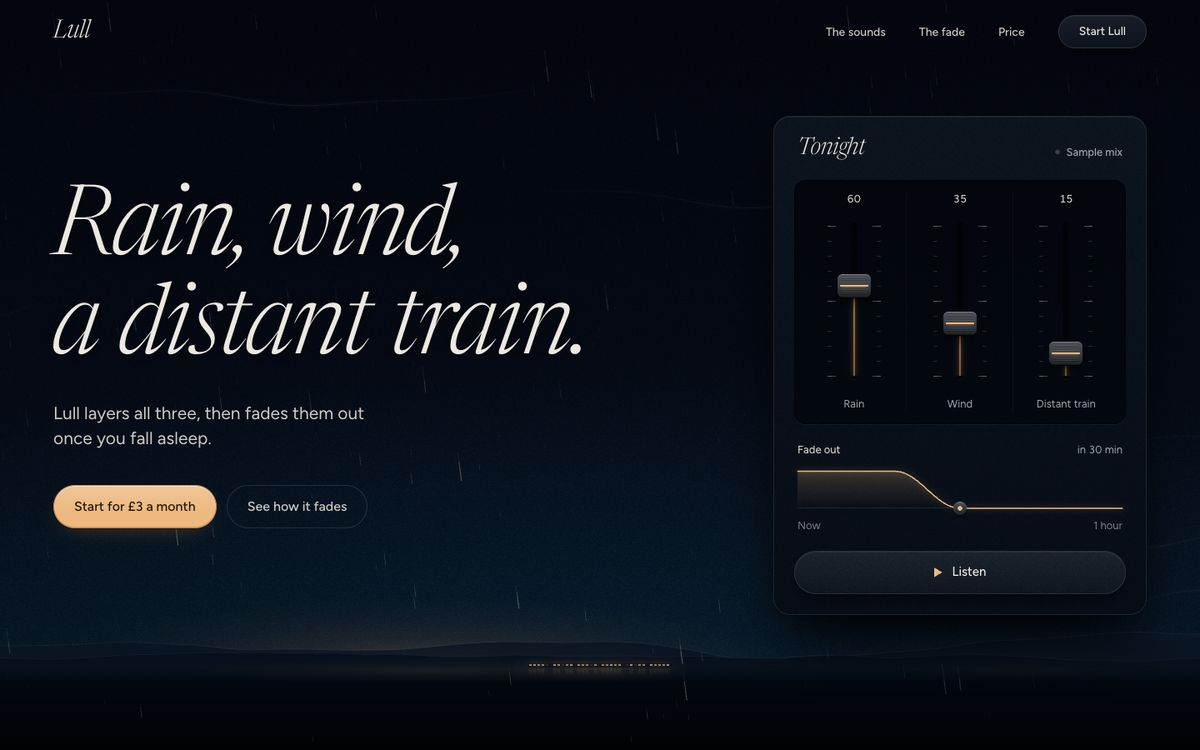
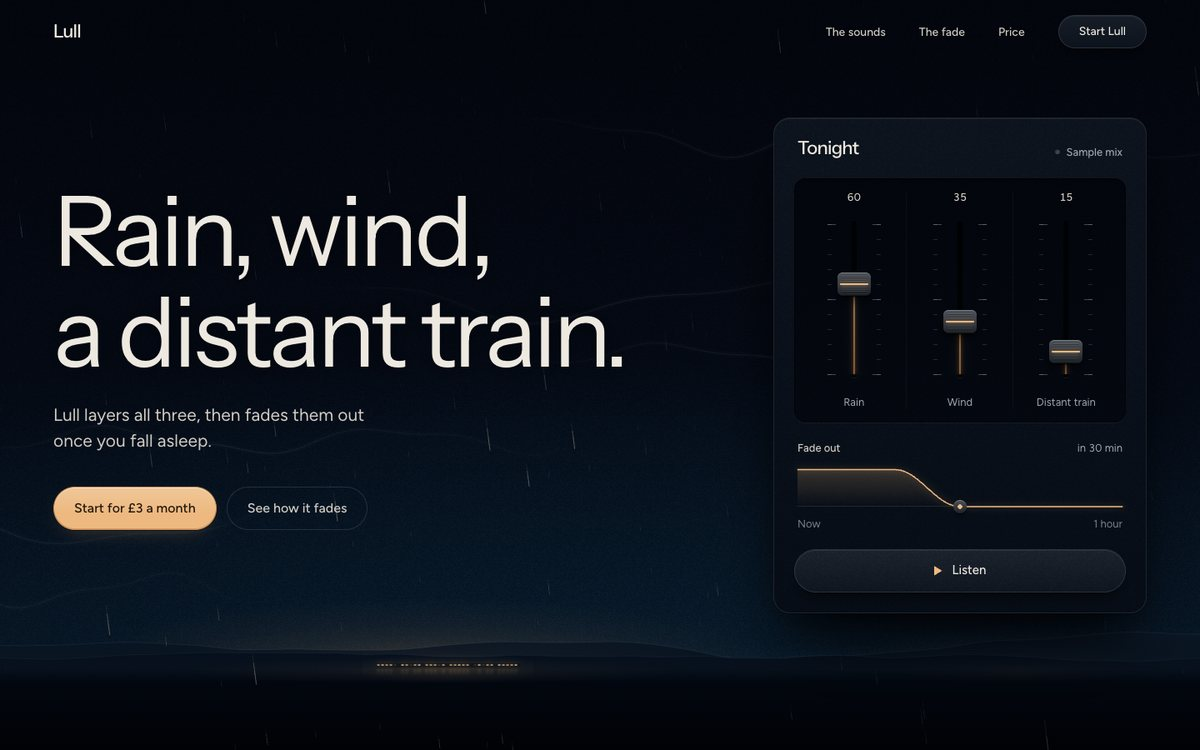
Ribbon sets its heads upright in Instrument Sans
The light Newsreader italic goes; heads, figures and the wordmark take Instrument Sans at 400 and 500. The theme file, its picture and the README picture follow, and Albert Sans takes Instrument Sans's place among the unused display faces.

diff --git a/skills/hallmark/references/themes/ribbon.md b/skills/hallmark/references/themes/ribbon.md
@@ -3,18 +3,18 @@ name: Ribbon
 slug: ribbon
 genre: atmospheric
 paper: light 98.5 85
-display: high-contrast-serif Newsreader italic
+display: grotesk-sans Instrument Sans
 accent: chromatic-teal 190
 posture: committed
 keywords: sleep, sound, soundscape, audio, night, rest, calm, wellness, meditation, white noise, ambient, listen, headphones, wind down, bedtime, quiet, breathing, app, subscription
-material: warm off-white or blue-black night, Newsreader light italic over Figtree, machined parts lit from above, the hour drawn as light on a generated canvas, one signal
+material: warm off-white or blue-black night, Instrument Sans at a quiet weight over Figtree, machined parts lit from above, the hour drawn as light on a generated canvas, one signal
 photo: muted sepia=14
 pictured: Night Notes, Stage hero, in the two-in-the-morning colourway
 ---
 
 # Ribbon
 
-The hour before sleep, set quietly: Newsreader italic at its lightest for every head, Figtree in a soft grey for reading, hairline rules instead of boxes, and the night itself drawn as slow light behind a machined instrument that really sets the levels. The calm comes from light type, slow light and well-made parts. It is not a glossy wellness app and not a sky of stars and moons.
+The hour before sleep, set quietly: Instrument Sans at 400, upright and tightly set, for every head, Figtree in a soft grey for reading, hairline rules instead of boxes, and the night itself drawn as slow light behind a machined instrument that really sets the levels. The calm comes from light type, slow light and well-made parts. It is not a glossy wellness app and not a sky of stars and moons.
 
 ## Tokens
 
@@ -30,11 +30,11 @@ The hour before sleep, set quietly: Newsreader italic at its lightest for every 
   --edge-light: inset 0 1px 0 oklch(100% 0 0 / 0.5);
   --shadow-part: 0 1px 0 oklch(20% 0.01 80 / 0.25), 0 10px 18px -6px oklch(20% 0.01 80 / 0.3);
   --shadow-panel: 0 1px 0 oklch(20% 0.01 80 / 0.2), 0 24px 48px -16px oklch(20% 0.02 80 / 0.35);
-  --font-display: "Newsreader", Georgia, serif; --font-body: "Figtree", ui-sans-serif, system-ui, sans-serif;
+  --font-display: "Instrument Sans", ui-sans-serif, system-ui, sans-serif; --font-body: "Figtree", ui-sans-serif, system-ui, sans-serif;
   --font-outlier: "JetBrains Mono", ui-monospace, monospace;
   --radius-card: 20px; --radius-part: 6px; --radius-pill: 999px; --rule-hair: 1px;
   --shadow-card: none;
-  --tracking-display: -0.022em; --display-weight: 300;
+  --tracking-display: -0.035em; --display-weight: 400;
 }
 ```
 
@@ -48,7 +48,7 @@ One dial, the colourway, stated in the stamp (`ribbon: two-in-the-morning`). The
 
 ## Type
 
-- **Display:** Newsreader italic 300 at opsz 72, `--tracking-display`, line-height 1.02. Declared italic system (stamp `waive 38ii`): every head at every level, true italic, `font-synthesis: none`, one weight, one colour. Big figures and levels take the display italic too, lining and tabular.
+- **Display:** Instrument Sans 400, upright, `--tracking-display`, line-height 1.04, sentence case, one colour; 500 for small titles (a panel's name, the wordmark). Big figures and levels take the display face too, lining and tabular.
 - **Body:** Figtree 400 at 17px, line-height 1.6, in `--color-muted`; Figtree 500 for a part's name and value.
 - **Labels:** Figtree 500 a step smaller, sentence case, untracked, `--color-muted`, tabular figures on values.
 
@@ -63,9 +63,9 @@ One dial, the colourway, stated in the stamp (`ribbon: two-in-the-morning`). The
 ## Range
 
 - **The instrument as the hero:** the product's controls built as a machined panel that really works, beside a one-line head, over the drawn night.
-- **Rows as a list of levels:** each part's name in display italic on hairlines, its line in Figtree, its level as an italic figure; the same panel in the app's frame beside it, synced.
+- **Rows as a list of levels:** each part's name in the display face on hairlines, its line in Figtree, its level as a display figure; the same panel in the app's frame beside it, synced.
 - **Time as a drawn curve:** what changes over the night drawn as lines falling together across the width, columns marking the moments, levels in tabular Figtree beneath.
-- **Price under the horizon:** the figure in display italic at 8 to 10rem over the same land and lit row, one Figtree line, the lit pill.
+- **Price under the horizon:** the figure in the display face at 8 to 10rem over the same land and lit row, one Figtree line, the lit pill.
 
 ## Controls
 
@@ -83,7 +83,7 @@ Calm and specific: the hour, the sound, how loud. Never a promise of perfect sle
 
 ## Do-nots
 
-- Never a roman or a heavy head; the light italic is the system at every level.
+- Never an italic or a heavy head; the display stays upright at 400 and 500.
 - Never a starfield, a moon, a navy-to-violet gradient or a stock sleeper.
 - Never a plastic or flat control on the instrument; parts are machined, lit from above, one light.
 - Never a drawn waveform or equaliser; levels live on faders and lines.
@@ -91,11 +91,11 @@ Calm and specific: the hour, the sound, how loud. Never a promise of perfect sle
 ## Build hint
 
 ```html
-<link href="https://fonts.googleapis.com/css2?family=Newsreader:ital,opsz,wght@1,6..72,300&family=Figtree:wght@400;500&family=JetBrains+Mono:wght@400;500&display=swap" rel="stylesheet">
+<link href="https://fonts.googleapis.com/css2?family=Instrument+Sans:wght@400;500&family=Figtree:wght@400;500&family=JetBrains+Mono:wght@400;500&display=swap" rel="stylesheet">
 ```
 
 ```css
-h1, h2, h3 { font-style: italic; font-weight: 300; font-variation-settings: "opsz" 72; font-synthesis: none; line-height: 1.02; }
+h1, h2, h3 { font-weight: 400; font-synthesis: none; line-height: 1.04; }
 .btn { min-height: 52px; padding: 0 var(--space-lg); border: var(--rule-hair) solid var(--color-rule); border-radius: var(--radius-pill); background: linear-gradient(var(--color-paper-2), var(--color-paper-3)); box-shadow: var(--edge-light), var(--shadow-part); color: var(--color-ink); font: 500 var(--text-md)/1 var(--font-body); }
 .btn--primary { background: var(--color-accent); border-color: var(--color-accent); color: var(--color-accent-ink); }
 .btn:active { transform: translateY(1px); }

diff --git a/skills/hallmark/references/fonts.md b/skills/hallmark/references/fonts.md
@@ -27,7 +27,7 @@ Every model reaches for these first, so they read as unchosen: Inter, Roboto, Op
 | Roman serif | EB Garamond, Cardo, Castoro, Piazzolla, Alegreya, Marcellus (Google); Gambetta, Recia (Fontshare) |
 | High-contrast serif | Gloock, Libre Bodoni, Abril Fatface, Rozha One, Besley (Google); Erode, Melodrama (Fontshare) |
 | Slab serif | Arvo, Hepta Slab, Domine, Alfa Slab One, Solway (Google); Bespoke Slab (Fontshare; old-style figures that ignore `lining-nums`, so figures go in the body face) |
-| Grotesk sans | Rethink Sans, Reddit Sans, Instrument Sans (Google); Clash Grotesk, Supreme (Fontshare) |
+| Grotesk sans | Rethink Sans, Reddit Sans, Albert Sans (Google); Clash Grotesk, Supreme (Fontshare) |
 | Geometric sans | Lexend, Geologica, League Spartan, Funnel Display, Afacad (Google); Satoshi, Technor, Excon (Fontshare) |
 | Rounded sans | Inclusive Sans, Nunito Sans at 700 only with an argument, Varela Round (Google); Chubbo, Comico (Fontshare) |
 | Condensed and heavy | Teko, Tektur, Michroma, Antonio (Google); Clash Display, Panchang, Khand, Telma, Stardom, Array (Fontshare) |
